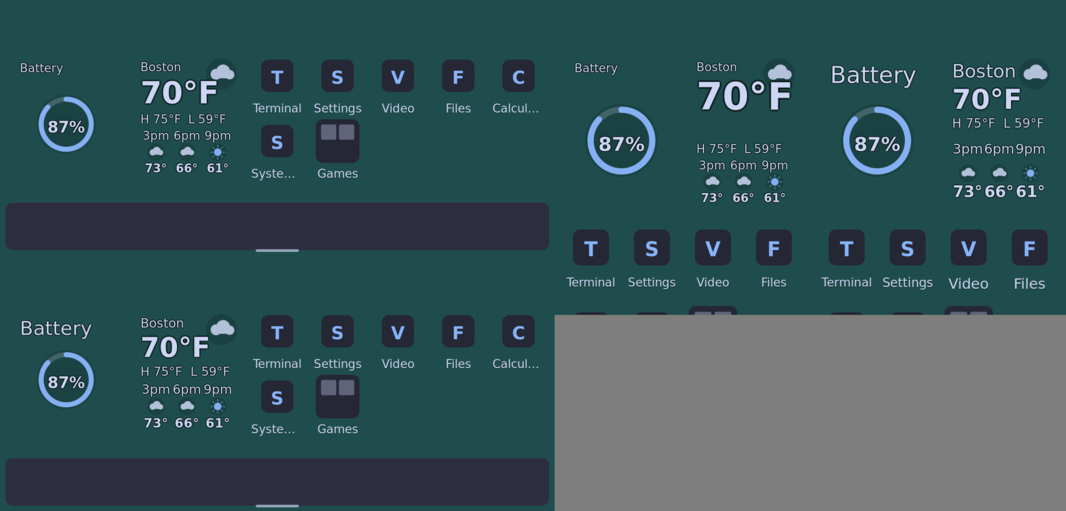
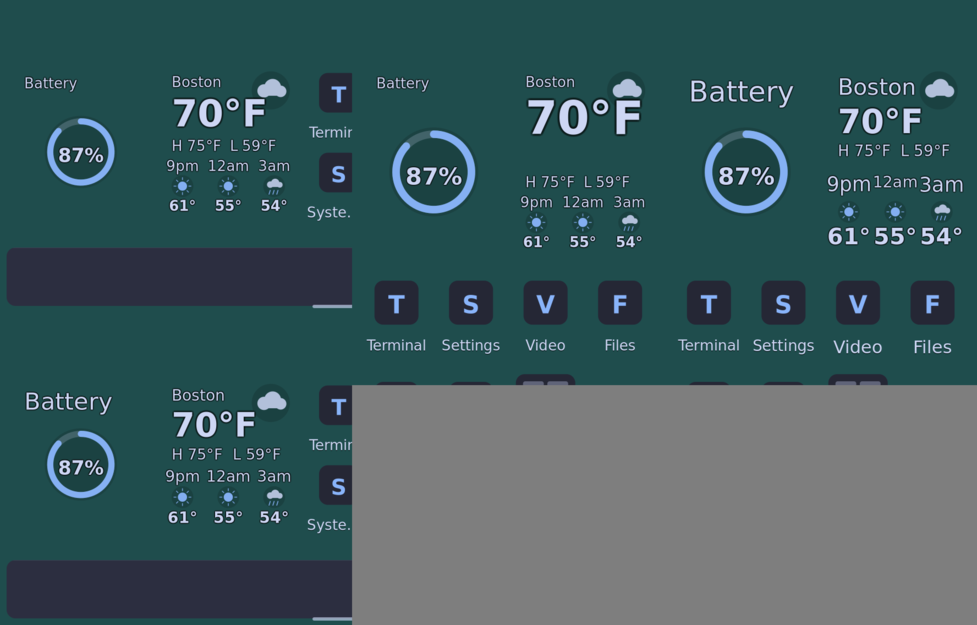
Weather card: the forecast strip spans the whole card
On the board (1232x568) the forecast column shortened "12am" to "12…":
with the card's side padding a column was too narrow for the Caption
role. The strip now uses the full card width. The host fixture forecasts
9pm/12am/3am so the render covers the widest label.

diff --git a/nix/rust-shell-client/src/render.rs b/nix/rust-shell-client/src/render.rs
@@ -4910,9 +4910,11 @@ fn paint_widget_card_content(cr: &Context, style: &VisualStyle, kind: WidgetKind
             widget_line(cr, &high_low, x + pad, hl_y, w - pad * 2.0, px, floor, style.text,
                 pango::Weight::Normal, pango::Alignment::Left);
             if !shown.is_empty() {
-                let col_w = (w - pad * 2.0) / shown.len() as f64;
+                // The strip spans the whole card: with the side padding a
+                // column is too narrow for "12am" at the Caption role.
+                let col_w = w / shown.len() as f64;
                 for (index, entry) in shown.iter().enumerate() {
-                    let col_x = x + pad + col_w * index as f64;
+                    let col_x = x + col_w * index as f64;
                     widget_line(cr, &entry.label, col_x, strip_y, col_w, px, floor, style.text,
                         pango::Weight::Normal, pango::Alignment::Center);
                     let entry_glyph = crate::home_widgets::weather::condition_glyph(&entry.condition);

diff --git a/nix/rust-shell-client/examples/render_accessibility_scale_evidence.rs b/nix/rust-shell-client/examples/render_accessibility_scale_evidence.rs
@@ -149,7 +149,7 @@ fn render_home_small(path: PathBuf, theme: &AppearanceSnapshot, w: u32, h: u32) 
     );
     let mut home = HomeScreen::new(layout, f64::from(w));
     home.battery = BatteryState::Present { percent: 87, status: "Discharging".into() };
-    let forecast = [("3pm", 23, "Partly cloudy"), ("6pm", 19, "Overcast"), ("9pm", 16, "Clear")]
+    let forecast = [("9pm", 16, "Clear"), ("12am", 13, "Clear"), ("3am", 12, "Light rain")]
         .into_iter()
         .map(|(label, temp_c, condition)| ForecastEntry { label: label.into(), temp_c, condition: condition.into() })
         .collect();

diff --git a/docs/blob-inventory.md b/docs/blob-inventory.md
@@ -2057,7 +2057,7 @@ DATA 72969291055b086c99065f7f595d78a04ecbe8c3609958c6aede900abf581e42 docs/evide
 DATA 1e858f92dd9f427097d33a4b98dac5b37511b5c19b33020fb63c3147ffdd1212 docs/evidence/display-touch/trackpad-restart-and-long-press/long-two-finger-press-page2-after-swipe-1280x800-grim.png
 DATA 6e222d41121d2e15b3e0a882577b0254fde1067a2716aa50fdb044673eaf893a docs/evidence/rest-of-text/host-banner-1232x568.png
 DATA e7d43131d2a871cf09143d8e3b5f304338fc22c66522d8f01e3c753340b1090e docs/evidence/rest-of-text/host-banner-568x1232.png
-DATA 0ef733c4681183f95f56209dae58c1a60b81bb67152341c17fec61f1c2ed2754 docs/evidence/rest-of-text/host-home-widgets-steps.png
+DATA 84944d451c4c5266e381fbac4b859350e3c50e7b36d9f583f3b2de2ea22c5dea docs/evidence/rest-of-text/host-home-widgets-steps.png
 ```
 
 `group:` rows stand for a directory whose members are enumerated by
@@ -3572,4 +3572,4 @@ Command and limits: `docs/evidence/battery-details-widget/host/README.md`.
[5 lines of base64/hex data omitted]
